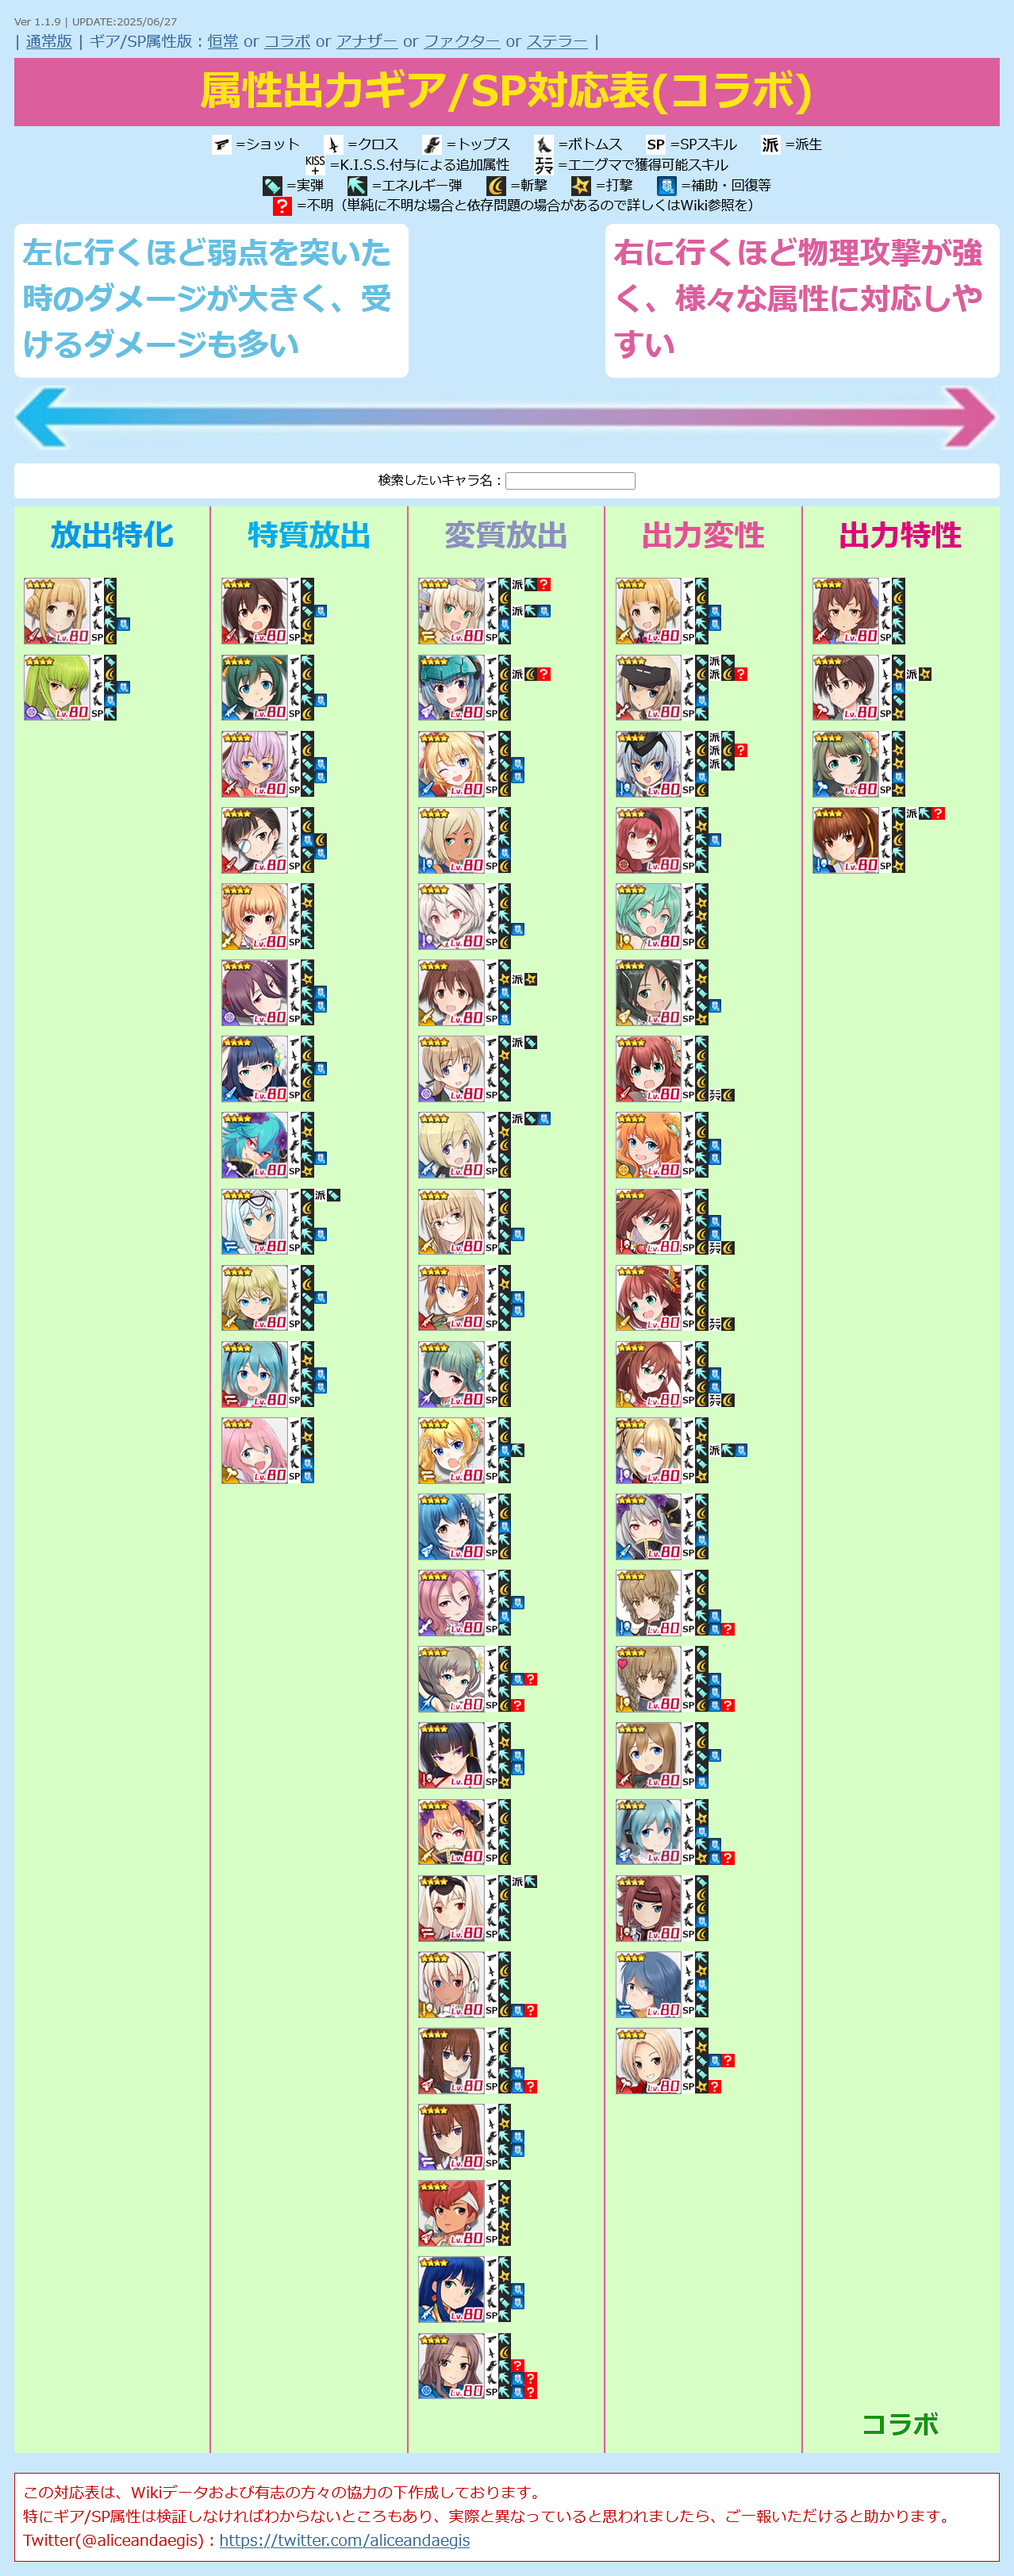
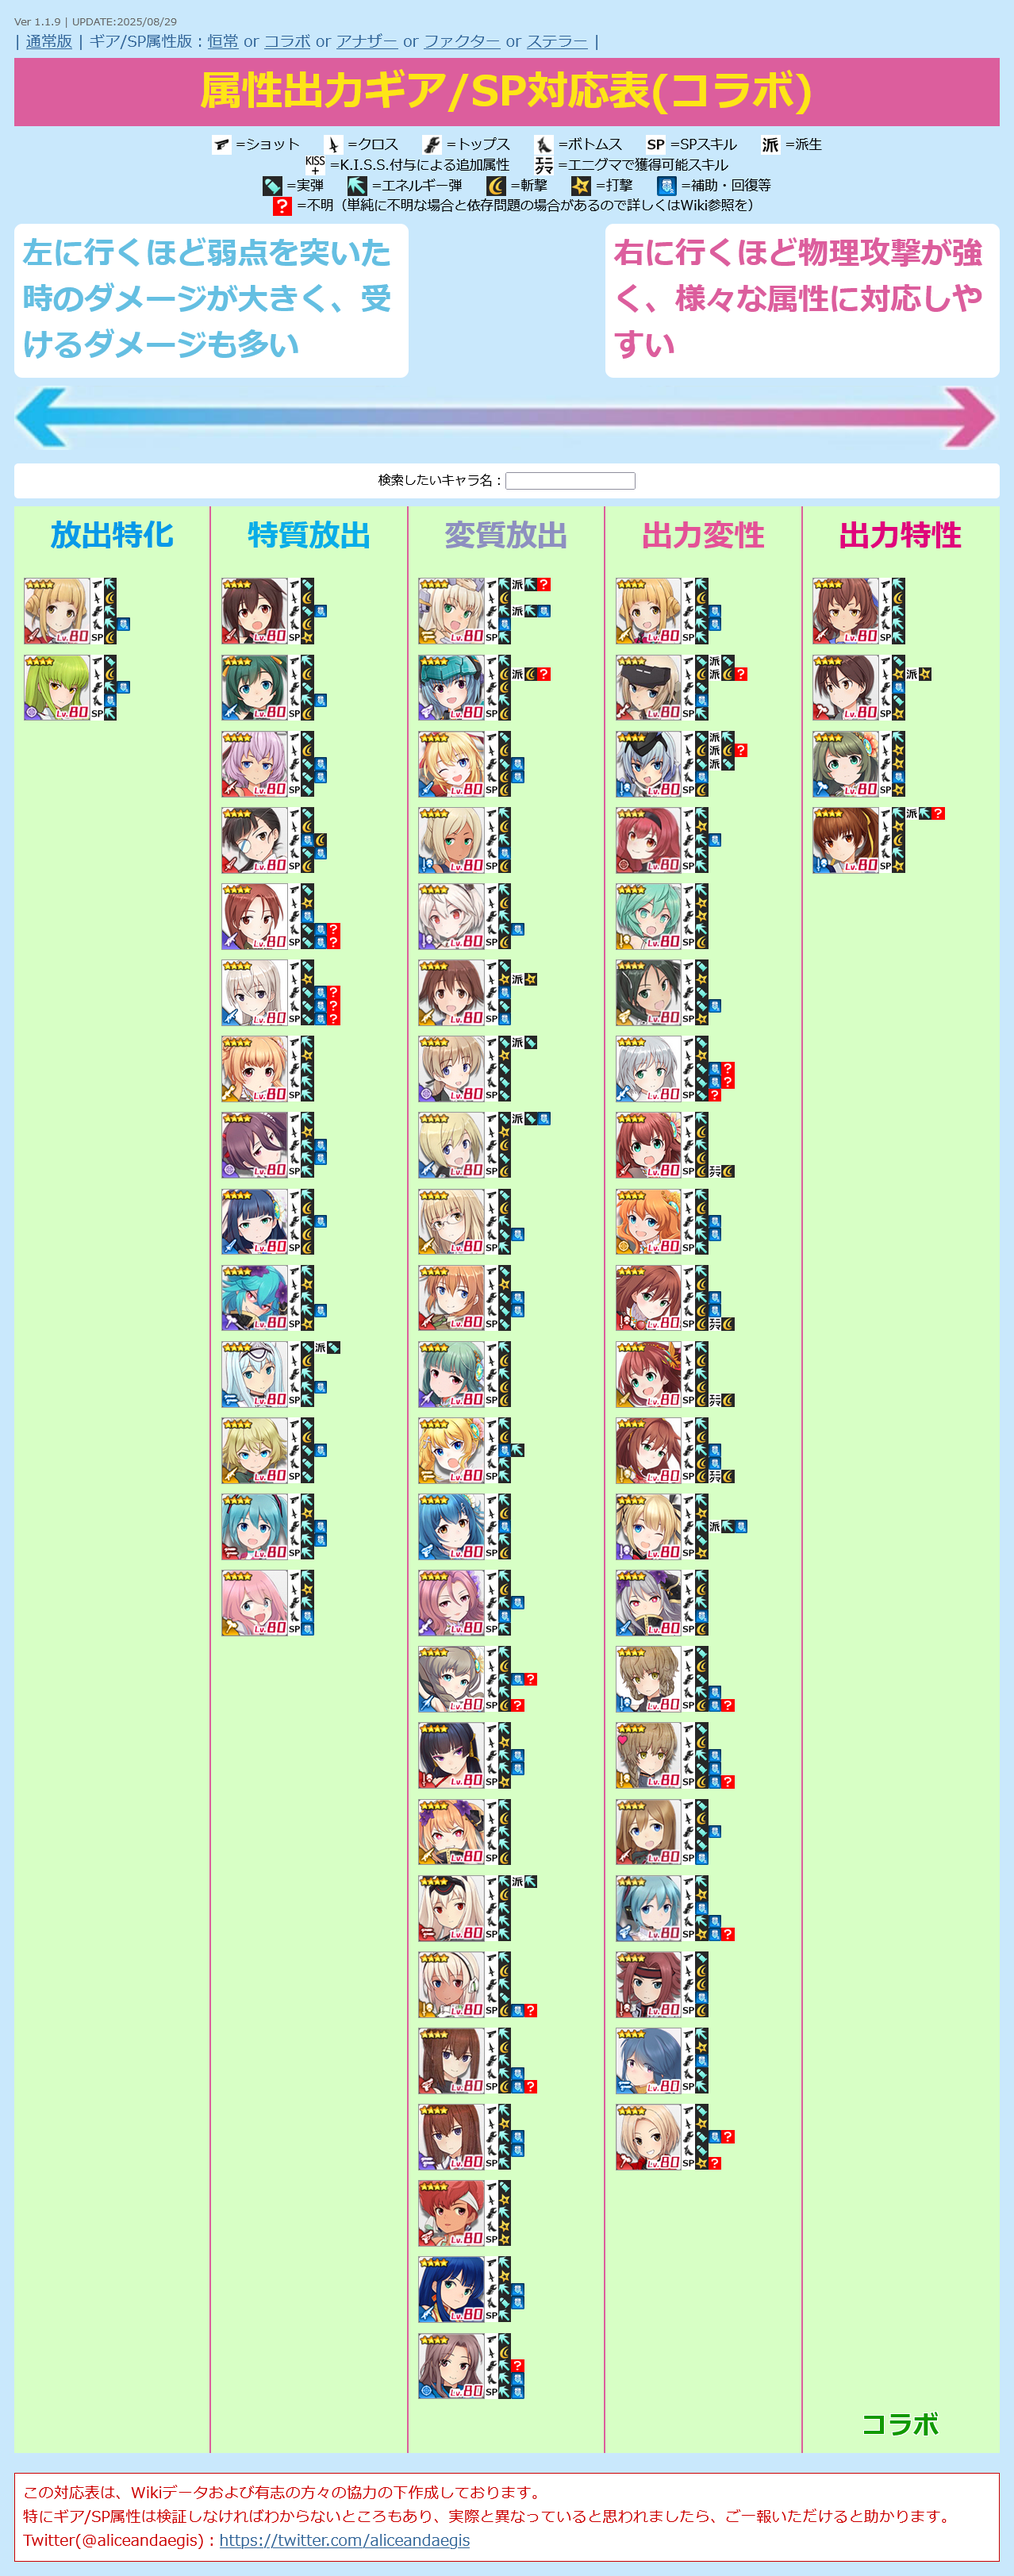
UPDATE charadata
・コラボ ミーナ・ディートリンデ・ヴィルケを追加
・コラボ サーニャ・V・リトヴャクを追加
・コラボ エイラ・イルマタル・ユーティライネンを追加

Changed region(s): [[0.6103, 0.4045, 0.7324, 0.8401], [0.2136, 0.3423, 0.3357, 0.6534], [0.5188, 0.9023, 0.5493, 0.9335]]

diff --git a/alice.html b/alice.html
@@ -12,7 +12,7 @@
   <script>
 
 /* 更新情報 必要に応じて書き換えてください */
-  var version = "Ver 1.1.9 | UPDATE:2025/08/13";
+  var version = "Ver 1.1.9 | UPDATE:2025/08/29";
 
 
 /*
@@ -2865,6 +2865,49 @@
       "link": "https://wikiwiki.jp/alicegear/%E3%83%95%E3%83%A9%E3%83%B3%E3%83%81%E3%82%A7%E3%82%B9%E3%82%AB%E3%83%BB%E3%83%AB%E3%83%83%E3%82%AD%E3%83%BC%E3%83%8B",
       "category": "99"
     },
+    {
+      "id": "309",
+      "type": "2",
+      "src": "normal-minna.png",
+      "name": "ミーナ・ディートリンデ・ヴィルケ",
+      "equip1": "1",
+      "equip2": "4",
+      "equip3": "5",
+      "equip4": "15?",
+      "sp": "15?",
+      "attr": "2",
+      "link": "https://wikiwiki.jp/alicegear/%E3%83%9F%E3%83%BC%E3%83%8A%E3%83%BB%E3%83%87%E3%82%A3%E3%83%BC%E3%83%88%E3%83%AA%E3%83%B3%E3%83%87%E3%83%BB%E3%83%B4%E3%82%A3%E3%83%AB%E3%82%B1",
+      "category": "99"
+    },
+    {
+      "id": "310",
+      "type": "4",
+      "src": "normal-sanya.png",
+      "name": "サーニャ・V・リトヴャク",
+      "equip1": "1",
+      "equip2": "4",
+      "equip3": "15?",
+      "equip4": "15?",
+      "sp": "1?",
+      "attr": "4",
+      "link": "https://wikiwiki.jp/alicegear/%E3%82%B5%E3%83%BC%E3%83%8B%E3%83%A3%E3%83%BBV%E3%83%BB%E3%83%AA%E3%83%88%E3%83%B4%E3%83%A3%E3%82%AF",
+      "category": "99"
+    },
+    {
+      "id": "311",
+      "type": "2",
+      "src": "normal-eila.png",
+      "name": "エイラ・イルマタル・ユーティライネン",
+      "equip1": "1",
+      "equip2": "4",
+      "equip3": "15?",
+      "equip4": "15?",
+      "sp": "15?",
+      "attr": "4",
+      "link": "https://wikiwiki.jp/alicegear/%E3%82%A8%E3%82%A4%E3%83%A9%E3%83%BB%E3%82%A4%E3%83%AB%E3%83%9E%E3%82%BF%E3%83%AB%E3%83%BB%E3%83%A6%E3%83%BC%E3%83%86%E3%82%A3%E3%83%A9%E3%82%A4%E3%83%8D%E3%83%B3",
+      "category": "99"
+    },
+
     {
       "id": "401",
       "type": "4",
